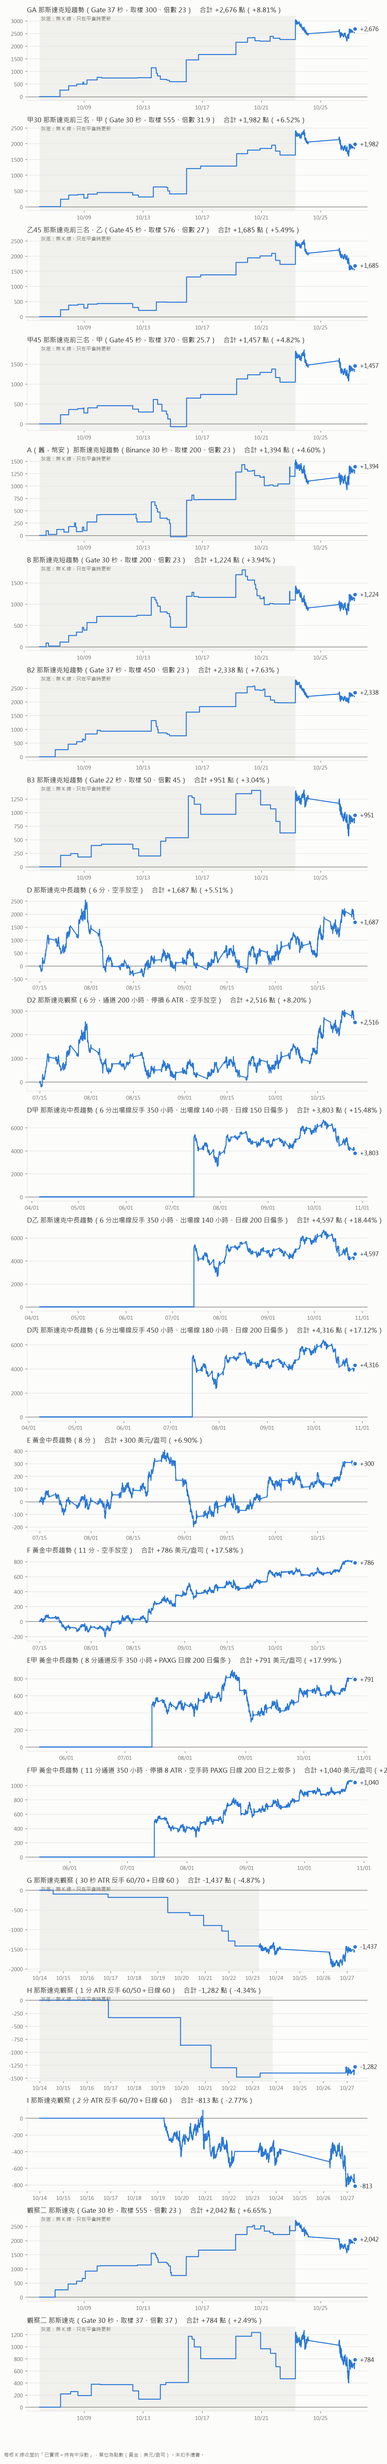
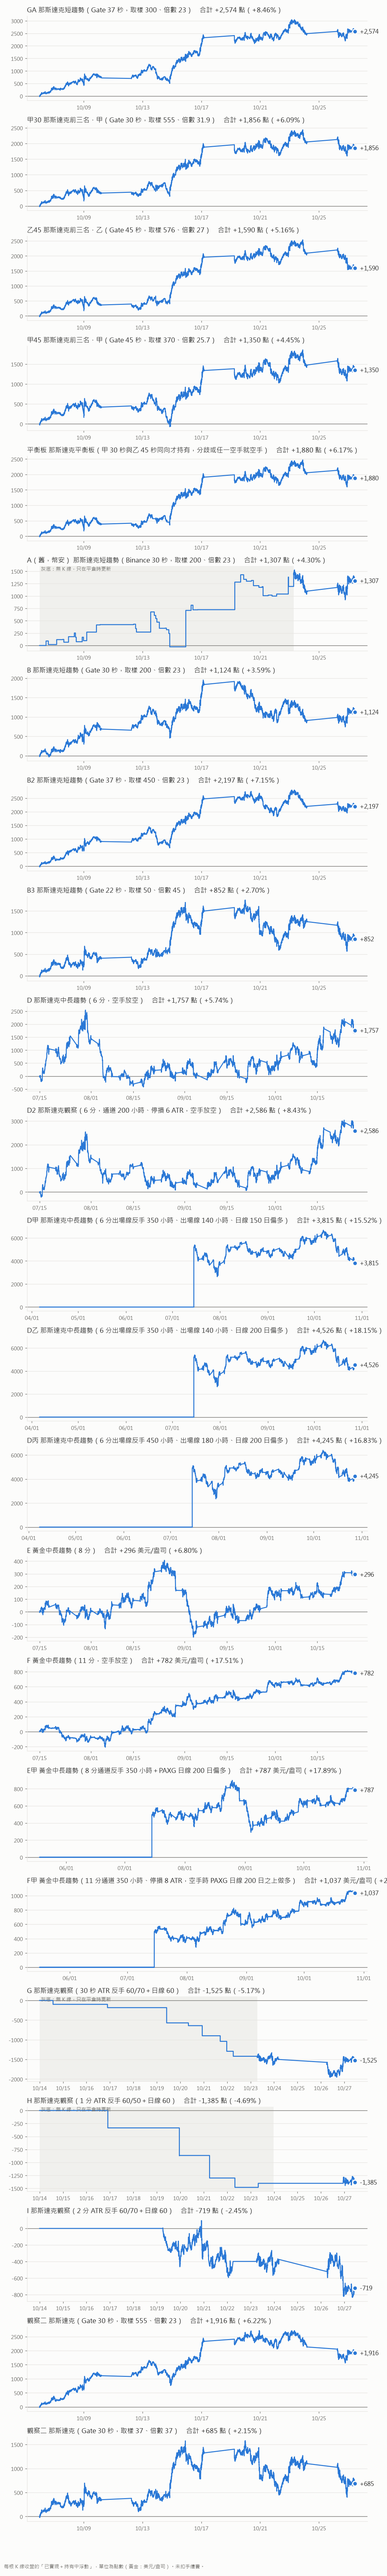
期貨趨勢 v1.34.0：新增平衡板（甲 30 秒與乙 45 秒同向才持有，紀錄代號 BAL），版面重排
- 儀表板：平衡板格子、交易明細、績效表；第 1 縱列 甲30／乙45／平衡板，第 2 縱列 甲45／B2／GA，觀察二 555/23 移右下角
- 修平衡板格子：補訊號清單（部位列與藍色現價標籤）、加入那斯達克同步群組
- 紀錄程式：新增 BAL 組（乙只用收盤已完成的 45 秒 K、兩邊暖機完成才算），抓資料起點含 BAL 暖機
- 實際紀錄：寫入平衡板 45 列（10/06 起 23 筆已平倉、+1,750 點），並更新今早之後各組新進出（公司）

diff --git a/index.html b/index.html
@@ -3,7 +3,7 @@
 <head>
 <meta charset="utf-8">
 <meta name="viewport" content="width=device-width,initial-scale=1,viewport-fit=cover">
-<title>期貨趨勢 v1.33.1</title>
+<title>期貨趨勢 v1.34.0</title>
 <meta name="description" content="那斯達克 30 秒 Range Filter（Binance 與 Gate）、那斯達克 6 分、黃金 8 分與黃金 11 分 Donchian 的即時趨勢訊號">
 <meta name="theme-color" content="#0b0e14">
 <meta name="apple-mobile-web-app-capable" content="yes">
@@ -246,7 +246,7 @@ canvas{display:block;width:100%;height:100%;touch-action:pan-y;cursor:crosshair}
 
 <script>
 "use strict";
-const VERSION = "v1.33.1";   // v1.33.1：手機翻屏改點底部「1」「2」按鈕（圖表會吃掉手指拖曳，滑不動）。 v1.33.0：手機版一頁超過 6 格改成 2 欄 × 3 列一屏、左右滑動翻屏（底下圓點標第幾屏）。 v1.32.0：績效表篩選加嚴格四關（拿掉最大一筆仍賺、前後段都賺、合計 ≥ 回落 2 倍、連虧 ≤ 7），前四名紅字照新篩選。 v1.31.3：觀察二 555/23（左中）改用 Gate 逐筆合成 30 秒（原生 30 秒只回溯約 3.5 天，畫面從 10/23 起、跟旁邊格對不起來；紀錄 O1 本來就用逐筆合成）。 v1.31.2：藍色分組框再改 1px，跟紅框同粗。v1.31.1：藍框由 3px 改 2px（使用者嫌太粗）。 v1.31.0：只有篩選前四名紅字閃爍，其餘黑底黃字不閃。 v1.30.0：中長趨勢加 E 甲、F 甲（E、F 加幣安 PAXG 日線 200 日偏多，永遠在場），明細與績效表加兩組（紀錄 EG／FG，7/15 起算），電腦版改 6 欄。v1.29.3：D 甲乙丙起算列改真正進場日（4/06、4/08），格子找不到進場訊號時改讀正式紀錄，跟交易明細一致。v1.29.2：D 甲乙丙日線改用單一月份合約（對齊 TV 換月調整，D 甲 10/23 翻空），起算持有改用 TV 真正進場價。v1.29.1：電腦版單格放大對中長趨勢、台指、黃金、觀察二失效（被分頁判斷取消）；那斯達克同步拆成秒級與 6 分兩組，短趨勢縮放不再把中長趨勢壓成兩三天。v1.29.0：中長趨勢加 D 甲／乙／丙（規則 7 出場線反手＋日線偏多，永遠在場內），明細與績效表加三組（紀錄代號 DA／DB／DC，7/15 起算），電腦版改 5 欄 × 3 列（第 5 欄）。v1.28.1：Gate 逐筆請求排隊限速＋失敗等 11 秒重試（撞到每 10 秒 200 次限額，GA、B2、B3、前三名載不出來）；網頁標題補成同版號。v1.28.0：LINE 推播的格子（目前只有那斯達克 B2；台指 A/B 使用者說先不設，PANELS 標 push:true）外框內側加黃色細線閃爍。v1.27.0：GA 優化前三名（甲 30 秒 555/31.9、乙 45 秒 576/27、甲 45 秒 370/25.7）加成三格，電腦版改 4 欄 × 3 列（第 4 欄），商品名稱白字閃爍；明細與績效表加三組（紀錄代號 J30、Y45、J45，10/6 起算）；Gate 逐筆多合成 30、45 秒。v1.26.2： v1.26.2：舊幣安 A 加回交易明細與績效表（只讀正式紀錄）。v1.26.1：閃爍由 1.2 秒放慢成 2.4 秒、外框暗時亮度 15%→35%（使用者嫌刺眼）。
+const VERSION = "v1.34.0";   // v1.34.0：新增平衡板（甲 30 秒與乙 45 秒同向才持有，紀錄代號 BAL）。 v1.33.1：手機翻屏改點底部「1」「2」按鈕（圖表會吃掉手指拖曳，滑不動）。 v1.33.0：手機版一頁超過 6 格改成 2 欄 × 3 列一屏、左右滑動翻屏（底下圓點標第幾屏）。 v1.32.0：績效表篩選加嚴格四關（拿掉最大一筆仍賺、前後段都賺、合計 ≥ 回落 2 倍、連虧 ≤ 7），前四名紅字照新篩選。 v1.31.3：觀察二 555/23（左中）改用 Gate 逐筆合成 30 秒（原生 30 秒只回溯約 3.5 天，畫面從 10/23 起、跟旁邊格對不起來；紀錄 O1 本來就用逐筆合成）。 v1.31.2：藍色分組框再改 1px，跟紅框同粗。v1.31.1：藍框由 3px 改 2px（使用者嫌太粗）。 v1.31.0：只有篩選前四名紅字閃爍，其餘黑底黃字不閃。 v1.30.0：中長趨勢加 E 甲、F 甲（E、F 加幣安 PAXG 日線 200 日偏多，永遠在場），明細與績效表加兩組（紀錄 EG／FG，7/15 起算），電腦版改 6 欄。v1.29.3：D 甲乙丙起算列改真正進場日（4/06、4/08），格子找不到進場訊號時改讀正式紀錄，跟交易明細一致。v1.29.2：D 甲乙丙日線改用單一月份合約（對齊 TV 換月調整，D 甲 10/23 翻空），起算持有改用 TV 真正進場價。v1.29.1：電腦版單格放大對中長趨勢、台指、黃金、觀察二失效（被分頁判斷取消）；那斯達克同步拆成秒級與 6 分兩組，短趨勢縮放不再把中長趨勢壓成兩三天。v1.29.0：中長趨勢加 D 甲／乙／丙（規則 7 出場線反手＋日線偏多，永遠在場內），明細與績效表加三組（紀錄代號 DA／DB／DC，7/15 起算），電腦版改 5 欄 × 3 列（第 5 欄）。v1.28.1：Gate 逐筆請求排隊限速＋失敗等 11 秒重試（撞到每 10 秒 200 次限額，GA、B2、B3、前三名載不出來）；網頁標題補成同版號。v1.28.0：LINE 推播的格子（目前只有那斯達克 B2；台指 A/B 使用者說先不設，PANELS 標 push:true）外框內側加黃色細線閃爍。v1.27.0：GA 優化前三名（甲 30 秒 555/31.9、乙 45 秒 576/27、甲 45 秒 370/25.7）加成三格，電腦版改 4 欄 × 3 列（第 4 欄），商品名稱白字閃爍；明細與績效表加三組（紀錄代號 J30、Y45、J45，10/6 起算）；Gate 逐筆多合成 30、45 秒。v1.26.2： v1.26.2：舊幣安 A 加回交易明細與績效表（只讀正式紀錄）。v1.26.1：閃爍由 1.2 秒放慢成 2.4 秒、外框暗時亮度 15%→35%（使用者嫌刺眼）。
 //    // v1.26.0：A 格改 Gate 逐筆合成 37 秒 300/23（候選①），明細與績效表的 A 改讀紀錄代號 GA；畫面名稱改叫 GA；電腦版九格外框照部位閃爍（持多螢光紅、持空螢光綠、空手無框），取代 v1.25.1 的固定藍框。所有閃爍同步。v1.25.1：圖表標題 A 改回黃字不閃爍；B2、觀察二 555/23、D2 外框螢光藍細線閃爍。v1.25.0：電腦版（同一份程式，寬 1280px 以上或手動選「電腦」）：指定 9 格同一頁三欄三列、一樣大、不捲動；同市場格子同步顯示範圍（那斯達克、台指、恆生）；表格線螢光藍；持多／持空後面放合計（已平倉＋浮動）。v1.24.0：v1.23.6：圖表標題的觀察二 37/37 也改紅字閃爍；v1.23.5：圖表標題的 A、B2、D2、觀察二 555/23 改紅字閃爍；v1.23.4：績效表與明細的 A、B2、D2、觀察二 555/23 改紅字閃爍（只動透明度，不加光暈）；v1.23.3：明細的台指 A/B、觀察二台指拿掉閃爍；v1.23.2：台指四組從 10/21 起重新記錄觀察；v1.23.1：台指 A/B、觀察二可讀 台指/tv_hist.json 補 10/06 起的舊段明細；v1.23.0：台指四格用網頁自己的策略（參數不變）、資料只用 TradingView 台指期（1 秒 K 合成各格週期），不再照抄 848、不再讀期交所；v1.22.1：台指 K 線不再等期交所盤後檔，沒有連續月 30 秒時改用 TradingView 1 秒 K 合成；v1.22.0：台指 K 線改讀 TradingView 連續月 30 秒（轉接站 /tw，收到 200 根起生效，之前照舊）；v1.21.0：台指四組的持倉、明細、績效表改照 TradingView 848（連續月）交易清單（台指/tv_signals.json）；v1.20.4：台指換月窗恢復只看盤後（TX_HOLD_ROLL＝true）；v1.20.3：台指換月窗改即時優先；v1.20.2：明細視窗標題「交易明細」→「明細」；v1.20.1：標題列「中長趨勢」→「趨勢」、「交易明細」→「明細」；v1.20.0：交易明細加「績效表」分頁
 const $ = id => document.getElementById(id);
 const FAPI = "https://fapi.binance.com/fapi/v1";
@@ -624,6 +624,12 @@ const PANELS = [
    spec:{tf:"45 秒", par:"Range Filter 取樣 370・倍數 25.7・多空反轉", src:"Gate QQQ 合約逐筆合成"},
    sub:"Gate QQQ 合約逐筆合成 45 秒 K・Range Filter 取樣 370・倍數 25.7（GA 優化第 3 名・甲）",
    P:{per:370, mult:25.7, useAtr:true, atrLen:12, atrMult:1.5, useVol:true, volLen:20}},
+  /* v1.34.0（2026-10-27 使用者定案「穩健版」）：甲 30 秒與乙 45 秒同向才持有，分歧或任一空手就空手。
+     不自己算 RF，直接用甲、乙兩格的部位（同一份逐筆、同一組參數）；時間軸用甲的 30 秒 K，乙只用收盤已完成的那根。 */
+  {k:"bal", pg:"short", title:"那斯達克", tf:"平衡板（甲乙同向）", sym:"QQQ_USDT", src:"bal", tfSec:30, nq:true, kind:"bal", span:1e9,
+   spec:{tf:"30 秒", par:"甲 30 秒與乙 45 秒同向才持有・分歧或任一空手就空手", src:"甲、乙兩格的部位"},
+   sub:"甲 30 秒（555/31.9）與乙 45 秒（576/27）同向才持有・分歧或任一空手就空手（穩健版，2026-10-27 定案）",
+   P:{}},
   /* v1.6.0：A-2（取樣 400・倍數 16）拿掉，改放 Gate 版（使用者 2026-10-12 指定）。
      規則與 A-1 完全相同（30 秒 Range Filter 200/23），只換資料源：Gate QQQ_USDT 合約的原生 30 秒 K。
      為什麼：Binance 擋 Cloudflare，A-1 沒辦法雲端推播；Gate 連得到，LINE 推播改推這組。
@@ -1054,8 +1060,37 @@ async function backfill(){
 }
 
 /* ============ 計算 ============ */
+/* v1.34.0 平衡板：甲（30 秒）與乙（45 秒）都算好之後才算。時間軸用甲的 30 秒 K；
+   乙只用「收盤時間 ≤ 這根 30 秒 K 收盤」的那根部位（不偷看），兩邊都暖機完成才有部位。 */
+function recomputeBal(p){
+  const A = PAN("j30"), C = PAN("y45");
+  if(!A || !C || !A.ready || !C.ready || !A.R || !C.R) return;
+  const B = A.bars, n = A.done, cn = C.done, pos = new Array(B.length).fill(0);
+  const cEnd = i => C.bars[i].t + C.tfSec * 1000;
+  const warmC = C.R.warm;
+  let j = -1, warm = n;
+  for(let i = 0; i < n; i++){
+    const t = B[i].t + A.tfSec * 1000;
+    while(j + 1 < cn && cEnd(j + 1) <= t) j++;
+    if(i < A.R.warm || j < 0 || j < warmC) continue;
+    const a = A.R.pos[i], c = C.R.pos[j];
+    pos[i] = a === c ? a : 0;
+    if(warm === n) warm = i;   // 兩邊都暖機完成的第一根
+  }
+  // 訊號清單（entryOf 找進場點、圖上三角形用）：部位變成多或空的那一根
+  const all = [];
+  for(let i = 1; i < n; i++) if(pos[i] !== pos[i - 1] && pos[i] !== 0) all.push({i, d:pos[i]});
+  p.bars = B; p.done = n;
+  p.R = {pos, warm, all, sigs:all};   // sigs：draw() 畫進場三角形用，沒有的話繪圖會中斷（藍色現價標籤畫不出來）
+  p.span = A.span;
+  if(p.view && !p.userZoom) p.view.span = p.span;
+  p.ready = true;
+  $("wait-" + p.k).hidden = true;
+}
+
 function recompute(p){
   let B;
+  if(p.kind === "bal"){ recomputeBal(p); return; }
   if(p.src === "hsi"){
     // v1.19.0 恆生：TradingView「恆生傳送」警報送來的 30 秒 K（每根都是收盤後才送，全部算收完）
     B = HSI.bars; const need = p.P.per * 6 + 10, w = $("wait-" + p.k);
@@ -1270,6 +1305,10 @@ function renderInfo(p){
   const done = B.slice(0, p.done);
   if(p.kind === "rf"){
     trigK = "濾網線"; trig = fmtP(p, R.filt[p.done - 1]);
+  }else if(p.kind === "bal"){
+    // v1.34.0 平衡板沒有自己的觸發線：列出甲、乙目前的部位，兩邊同向才持有
+    const sd = k => { const q = PAN(k), s = q && q.R ? q.R.pos[q.done - 1] : 0; return s > 0 ? "多" : s < 0 ? "空" : "—"; };
+    trigK = "甲／乙"; trig = `${sd("j30")}／${sd("y45")}（同向才持有）`;
   }else if(p.kind === "atr"){
     const d = R.raw[p.done - 1];
     if(d > 0){ trigK = "翻空線"; trig = fmtP(p, R.ls[p.done - 1]); }
@@ -1328,6 +1367,7 @@ const TRADE_K = [
   {k:"J30", pk:"j30", name:"甲 30秒 555/31.9（第1名）", unit:"點"},   // v1.27.0 GA 優化前三名，紀錄代號 J30／Y45／J45，10/6 起算（10/25 以前是回算）
   {k:"Y45", pk:"y45", name:"乙 45秒 576/27（第2名）", unit:"點"},
   {k:"J45", pk:"j45", name:"甲 45秒 370/25.7（第3名）", unit:"點"},
+  {k:"BAL", pk:"bal", name:"平衡板（甲乙同向）", unit:"點"},   // v1.34.0 穩健版：甲 30 秒與乙 45 秒同向才持有，紀錄代號 BAL，10/6 起算
   {k:"A", pk:"a_old",  name:"舊 A",  unit:"點"},   // v1.26.2 使用者要求加回明細與績效表：格子已拿掉，只讀正式紀錄、沒有◆與浮動
   {k:"G", pk:"gate",   name:"B",    unit:"點"},
   {k:"G2", pk:"gate2", name:"B2",   unit:"點"},   // v1.23.4 紅字閃爍（取代原黃底閃爍）   // v1.10.0 起 37 秒 450/23（Gate 逐筆合成）
@@ -1550,7 +1590,7 @@ function specBar(T){
    - 篩選：已平倉 ≥ 20、獲利因子 ≥ 1.5、合計 > 0，加上 v1.32.0 嚴格四關（strictFail），七關全過才通過；篩選名次依獲利因子由高到低；未滿 1.55 加註。
    - 開工回報用的 skills/index-trend-ops/scripts/daily_table.js 是同一套規則，改這裡要兩邊一起改。 */
 const SUM_NAME = {
-  GA:"那斯達克・GA（37 秒 300/23）", J30:"那斯達克・甲（30 秒 555/31.9，第1名）", Y45:"那斯達克・乙（45 秒 576/27，第2名）", J45:"那斯達克・甲（45 秒 370/25.7，第3名）",
+  GA:"那斯達克・GA（37 秒 300/23）", J30:"那斯達克・甲（30 秒 555/31.9，第1名）", Y45:"那斯達克・乙（45 秒 576/27，第2名）", J45:"那斯達克・甲（45 秒 370/25.7，第3名）", BAL:"那斯達克・平衡板（甲乙同向）",
   A:"那斯達克・舊 A（幣安 30 秒）", G:"那斯達克・B（30 秒）", G2:"那斯達克・B2（37 秒）", G3:"那斯達克・B3（22 秒）",
   C:"那斯達克・D（6 分）", C2:"那斯達克・D2（6 分）", D:"黃金・E（8 分）", E:"黃金・F（11 分）",
   DA:"那斯達克・D 甲（6 分 350 時／均線 150）", DB:"那斯達克・D 乙（6 分 350 時／均線 200）", DC:"那斯達克・D 丙（6 分 450 時／均線 200）",
@@ -1720,7 +1760,8 @@ const LAY_KEY = "itd-layout", LAY_NEXT = {auto:"m", m:"w", w:"auto"}, LAY_TXT = 
    v1.27.0 第 4 欄由上而下 GA 優化第 1～3 名（甲 30 秒、乙 45 秒、甲 45 秒）。
    v1.29.0 使用者 2026-10-26 依商品分組重排（5 欄 × 3 列）：左 6 格那斯達克短趨勢、中上 4 格那斯達克中長趨勢、中下 2 格台指、
    右上 2 格黃金、右下 1 格恆生；每個小組外面一圈藍色閃爍框（GRP_AREAS，畫在格子間隙上）。 */
-const BOARD_AT = {rf:[1,1], gate2:[1,2], o2nq:[2,1], j30:[2,2], y45:[3,1], j45:[3,2],
+// v1.34.0 使用者 2026-10-27 指定：第 1 縱列 甲 30／乙 45／平衡板，第 2 縱列 甲 45／B2／GA；觀察二 555/23 移到右下角
+const BOARD_AT = {j30:[1,1], y45:[2,1], bal:[3,1], j45:[1,2], gate2:[2,2], rf:[3,2], o2nq:[3,6],
   nq6b:[1,3], nq7a:[1,4], nq7b:[2,3], nq7c:[2,4], tx37:[3,3], o2tx:[3,4], gold11:[1,5], gold11d:[1,6], gold8:[2,5], gold8d:[2,6], o2hsi:[3,5]};
 // v1.30.0 改 6 欄：黃金小組右上 2×2（F、F 甲／E、E 甲），恆生仍在右下
 const GRP_AREAS = ["1 / 1 / 4 / 3", "1 / 3 / 3 / 5", "3 / 3 / 4 / 5", "1 / 5 / 3 / 7", "3 / 5 / 4 / 6"];   // 列起／欄起／列止／欄止
@@ -1926,7 +1967,7 @@ function setHoverT(t){
    只在使用者動過圖之後才同步；格子的 K 棒週期不同（30 秒、37 秒、6 分…），所以用時間對齊、不用根數。
    v1.29.1：那斯達克拆成秒級（只有 2～4 天資料）與 6 分（7/15 起約三個月）兩組，否則動一下短趨勢，中長趨勢就被壓成同一段兩三天、縮不回去。 */
 const SYNC_GROUP = {};
-for(const [g, keys] of Object.entries({nq:["rf","gate","gate2","gate3","o2nq","o2nq37","j30","y45","j45"], nq6:["nq6","nq6b","nq7a","nq7b","nq7c"], tx:["tx30","tx37","tx22","o2tx"], hsi:["o2hsi"]}))
+for(const [g, keys] of Object.entries({nq:["rf","gate","gate2","gate3","o2nq","o2nq37","j30","y45","j45","bal"], nq6:["nq6","nq6b","nq7a","nq7b","nq7c"], tx:["tx30","tx37","tx22","o2tx"], hsi:["o2hsi"]}))
   for(const k of keys) SYNC_GROUP[k] = g;
 function syncView(p){
   const g = SYNC_GROUP[p.k];
@@ -2516,7 +2557,7 @@ async function main(){
 // 每秒把有新資料的面板重算重畫；斷線偵測也在這裡
 setInterval(() => {
   for(const p of PANELS){
-    if(p.dirty){ p.dirty = false; recompute(p); draw(p); }
+    if(p.dirty){ p.dirty = false; recompute(p); draw(p); if(p.k === "j30" || p.k === "y45"){ const b = PAN("bal"); if(b) b.dirty = true; } }
     renderInfo(p);
   }
   // v1.7.0：交易明細開著時每秒重算（有新翻轉就多一筆）；正式紀錄每 5 分鐘重讀一次

diff --git a/實際紀錄/更新紀錄.py b/實際紀錄/更新紀錄.py
@@ -49,7 +49,7 @@ def ms(y, m, d, h=0):  # 台北時間 → 毫秒
 START = {"A": ms(2026, 10, 6), "A2": ms(2026, 10, 6), "G": ms(2026, 10, 6), "B": ms(2026, 10, 8), "C": ms(2026, 7, 15), "D": ms(2026, 7, 15), "E": ms(2026, 7, 15),
          "R30": ms(2026, 10, 14), "R1": ms(2026, 10, 14), "R2": ms(2026, 10, 14), "C2": ms(2026, 7, 15), "G2": ms(2026, 10, 6), "G3": ms(2026, 10, 6),
          "O1": ms(2026, 10, 6), "O2": ms(2026, 10, 6), "GA": ms(2026, 10, 6),
-         "J30": ms(2026, 10, 6), "Y45": ms(2026, 10, 6), "J45": ms(2026, 10, 6),
+         "J30": ms(2026, 10, 6), "Y45": ms(2026, 10, 6), "J45": ms(2026, 10, 6), "BAL": ms(2026, 10, 6),
          "DA": ms(2026, 7, 15), "DB": ms(2026, 7, 15), "DC": ms(2026, 7, 15),
          "EG": ms(2026, 7, 15), "FG": ms(2026, 7, 15)}
 # EG、FG（畫面 E 甲／F 甲，2026-10-26 使用者要求加上去）：E、F 加幣安 PAXG 日線 200 日偏多、永遠在場內。EG＝E 的 8 分 K 通道反手，
@@ -70,9 +70,9 @@ START = {"A": ms(2026, 10, 6), "A2": ms(2026, 10, 6), "G": ms(2026, 10, 6), "B":
 # 10/15 以前是回算、不是當時實際記的。換月（12/11）時跟 R2 一樣還不會記換倉。
 # 2026-10-14 使用者要求 D、E 回溯拉到最大：XAUUSDT 2025/12/11 上市、PAXGUSDT 1 分 K 從 2020/08/28，各扣 350 小時暖機。
 # C 維持 8/15：單一月份合約的真 5 分 K 只有 60 天，更早只剩小時 K（9 月約已下市）。
-ORDER = ["GA", "J30", "Y45", "J45", "A", "G", "G2", "G3", "C", "C2", "DA", "DB", "DC", "D", "E", "EG", "FG", "R30", "R1", "R2", "O1", "O2"]
+ORDER = ["GA", "J30", "Y45", "J45", "BAL", "A","G", "G2", "G3", "C", "C2", "DA", "DB", "DC", "D", "E", "EG", "FG", "R30", "R1", "R2", "O1", "O2"]
 # LABEL 是畫面代號（v1.8.4 起照畫面順序叫 A～F），只用在印績效與曲線圖標題；紀錄檔「格子」欄仍是左邊的內部代號。
-LABEL = {"GA": "GA", "A": "A（舊，幣安）", "A2": "A-2", "G": "B", "B": "C", "C": "D", "D": "E", "E": "F", "R30": "G", "R1": "H", "R2": "I", "C2": "D2", "G2": "B2", "G3": "B3", "O1": "觀察二", "O2": "觀察二", "J30": "甲30", "Y45": "乙45", "J45": "甲45", "DA": "D甲", "DB": "D乙", "DC": "D丙", "EG": "E甲", "FG": "F甲"}
+LABEL = {"GA": "GA", "A": "A（舊，幣安）", "A2": "A-2", "G": "B", "B": "C", "C": "D", "D": "E", "E": "F", "R30": "G", "R1": "H", "R2": "I", "C2": "D2", "G2": "B2", "G3": "B3", "O1": "觀察二", "O2": "觀察二", "J30": "甲30", "Y45": "乙45", "J45": "甲45", "BAL": "平衡板", "DA": "D甲", "DB": "D乙", "DC": "D丙", "EG": "E甲", "FG": "F甲"}
 NAME = {"A": "那斯達克短趨勢（Binance 30 秒，取樣 200、倍數 23）", "A2": "那斯達克短趨勢（取樣 400、倍數 16）", "G": "那斯達克短趨勢（Gate 30 秒，取樣 200、倍數 23）", "B": "那斯達克短趨勢（1 分，取樣 100、倍數 16）", "C": "那斯達克中長趨勢（6 分，空手放空）", "D": "黃金中長趨勢（8 分）", "E": "黃金中長趨勢（11 分，空手放空）",
         "R30": "那斯達克觀察（30 秒 ATR 反手 60/70＋日線 60）", "R1": "那斯達克觀察（1 分 ATR 反手 60/50＋日線 60）", "R2": "那斯達克觀察（2 分 ATR 反手 60/70＋日線 60）",
         "C2": "那斯達克觀察（6 分，通道 200 小時、停損 6 ATR，空手放空）",
@@ -86,7 +86,8 @@ NAME = {"A": "那斯達克短趨勢（Binance 30 秒，取樣 200、倍數 23）
         "GA": "那斯達克短趨勢（Gate 37 秒，取樣 300、倍數 23）",
         "O1": "那斯達克（Gate 30 秒，取樣 555、倍數 23）", "O2": "那斯達克（Gate 30 秒，取樣 37、倍數 37）",
         "J30": "那斯達克前三名・甲（Gate 30 秒，取樣 555、倍數 31.9）", "Y45": "那斯達克前三名・乙（Gate 45 秒，取樣 576、倍數 27）",
-        "J45": "那斯達克前三名・甲（Gate 45 秒，取樣 370、倍數 25.7）"}
+        "J45": "那斯達克前三名・甲（Gate 45 秒，取樣 370、倍數 25.7）",
+        "BAL": "那斯達克平衡板（甲 30 秒與乙 45 秒同向才持有，分歧或任一空手就空手）"}
 GOLD = ("D", "E", "EG", "FG")   # 單位是美元/盎司
 
 # C 格合約與換月日（CME 慣例：到期前約一週的週四換到下一季）。過了最後一列要往下加
@@ -653,7 +654,7 @@ if __name__ == "__main__":
     # B2 暖機約 2,700 根（約 28 個交易小時），第一次從起算日往前多抓 5 天（中間有週末休市）
     gsince = min(last_t("G", START["G"]), last_t("G2", START["G2"] - 2 * 86400000), last_t("G3", START["G3"] - 2 * 86400000),
                  last_t("O1", START["O1"] - 2 * 86400000), last_t("O2", START["O2"] - 2 * 86400000), last_t("GA", START["GA"] - 2 * 86400000),
-                 last_t("J30", START["J30"] - 2 * 86400000), last_t("Y45", START["Y45"] - 3 * 86400000), last_t("J45", START["J45"] - 2 * 86400000), NOW) - 3 * 86400000
+                 last_t("J30", START["J30"] - 2 * 86400000), last_t("Y45", START["Y45"] - 3 * 86400000), last_t("J45", START["J45"] - 2 * 86400000), last_t("BAL", START["BAL"] - 5 * 86400000), NOW) - 3 * 86400000
     GTR = gate_trades(gsince)
     BG = bars_G(gsince, 30, GTR); posG, wG = calc_rf(BG, 200, 23)
     added += update("G", BG, posG, wG, "QQQ_USDT", nqconv)
@@ -674,6 +675,20 @@ if __name__ == "__main__":
     added += update("Y45", BG45, posY45, wY45, "QQQ_USDT", nqconv); LAST["Y45"] = LAST45
     posJ45, wJ45 = calc_rf(BG45, 370, 25.7)
     added += update("J45", BG45, posJ45, wJ45, "QQQ_USDT", nqconv); LAST["J45"] = LAST45
+    # 平衡板（2026-10-27 使用者定案）：甲 30 秒與乙 45 秒同向才持有，分歧或任一空手就空手。
+    # 時間軸用 30 秒 K；乙的部位只用收盤已完成的那根 45 秒 K（起點＋45 秒 ≤ 30 秒 K 收盤），不偷看。
+    # 暖機以兩邊都暖機完成為準：乙的暖機結束時間之後才開始算。
+    import bisect
+    ends45 = [b[0] + 45000 for b in BG45]
+    posBAL = []
+    for i, b in enumerate(BG):
+        a = posJ30[i]
+        k = bisect.bisect_right(ends45, b[0] + 30000) - 1
+        c = posY45[k] if k >= 0 else 0
+        posBAL.append(a if a == c else 0)
+    warmT45 = BG45[wY45][0] if wY45 < len(BG45) else float("inf")   # 乙的暖機結束時間；抓的資料不夠長就整段不算
+    warmBAL = next((i for i, b in enumerate(BG) if b[0] >= warmT45), len(BG))
+    added += update("BAL", BG, posBAL, max(wJ30, warmBAL), "QQQ_USDT", nqconv); LAST["BAL"] = LAST["J30"]
     BG3 = bars_G(gsince, 22, GTR); posG3, wG3 = calc_rf(BG3, 50, 45)
     added += update("G3", BG3, posG3, wG3, "QQQ_USDT", nqconv); LAST["G3"] = (BG3[-1][4], BG3[-1][0], nqconv(BG3[-1][0], BG3[-1][4]))
 
@@ -734,7 +749,7 @@ if __name__ == "__main__":
         posR7, wR7 = calc_r7(BC, lk, 6, 2.5, ma, DAILY7)
         added += update(k, BC, posR7, wR7, act[1]); LAST[k] = LAST["C"]
 
-    BARS = {"A": BA, "G": BG, "B": BB, "C": BC, "D": BD, "E": BE, "R30": BA, "R1": BB, "R2": BR2, "C2": BC, "G2": BG2, "G3": BG3, "O1": BG, "O2": BG, "GA": BG2, "J30": BG, "Y45": BG45, "J45": BG45, "DA": BC, "DB": BC, "DC": BC, "EG": BD, "FG": BE}
+    BARS = {"A": BA, "G": BG, "B": BB, "C": BC, "D": BD, "E": BE, "R30": BA, "R1": BB, "R2": BR2, "C2": BC, "G2": BG2, "G3": BG3, "O1": BG, "O2": BG, "GA": BG2, "J30": BG, "Y45": BG45, "J45": BG45, "BAL": BG, "DA": BC, "DB": BC, "DC": BC, "EG": BD, "FG": BE}
     allrows = [r for r in LOG_ROWS if r not in added] + added
     allrows.sort(key=lambda r: (r["格子"], int(r["時間戳"])))
     save_log(allrows)
